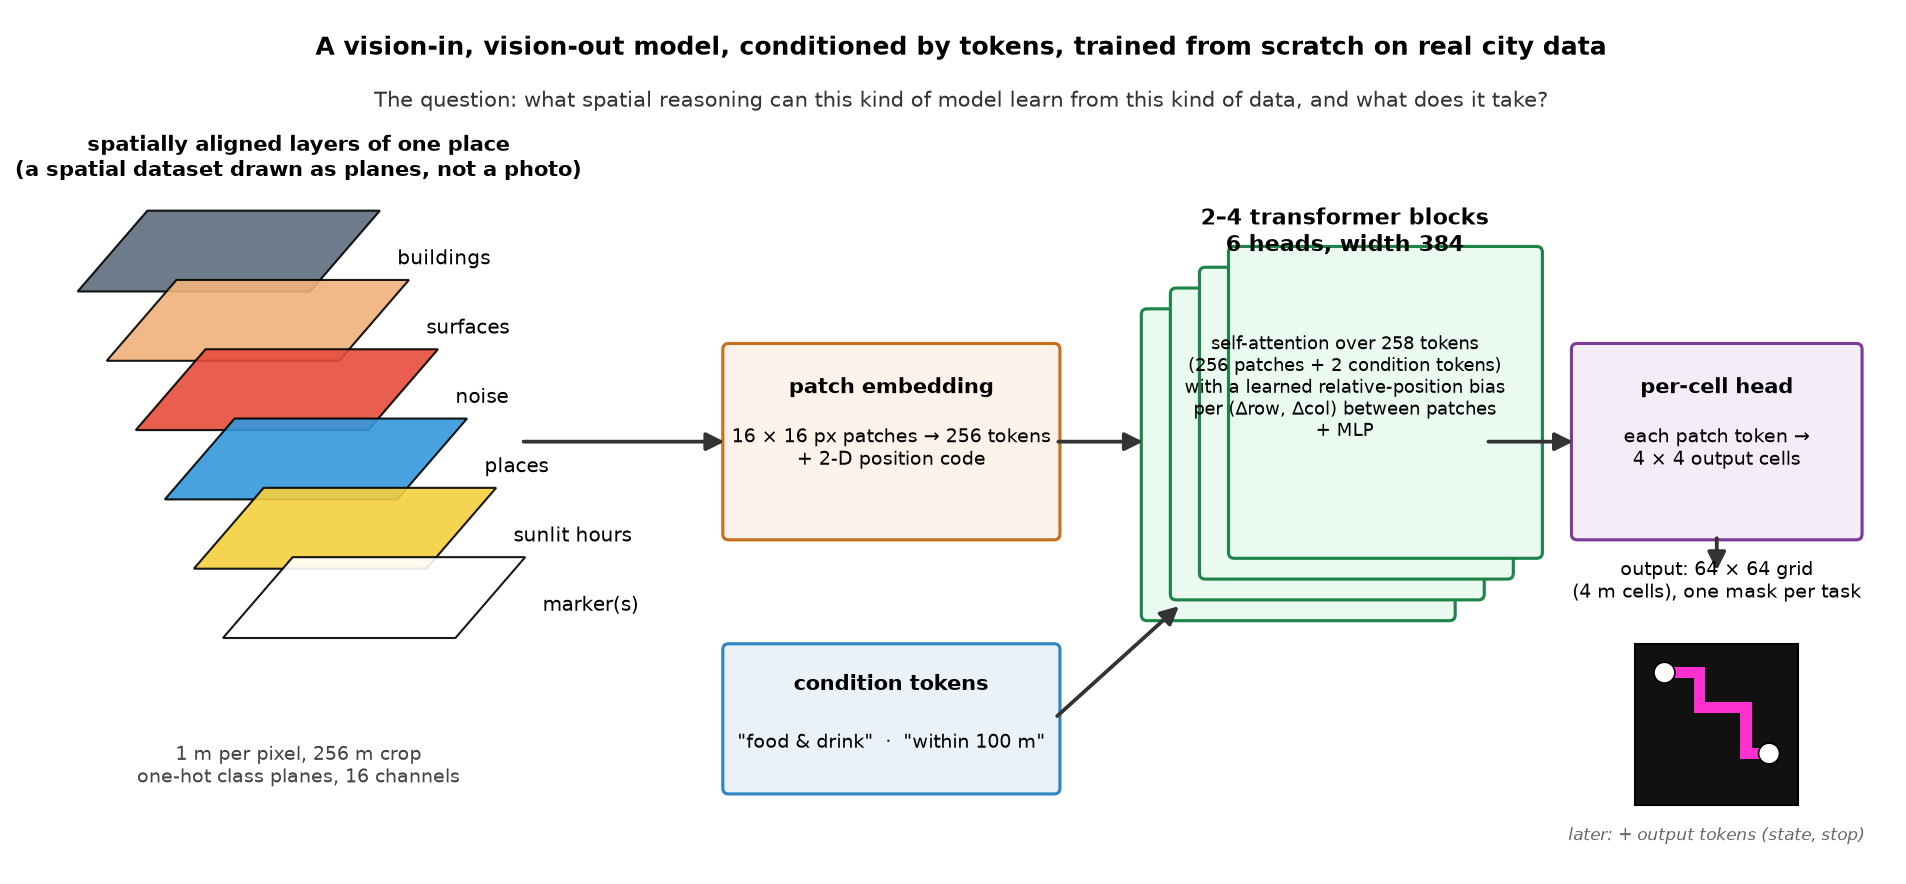
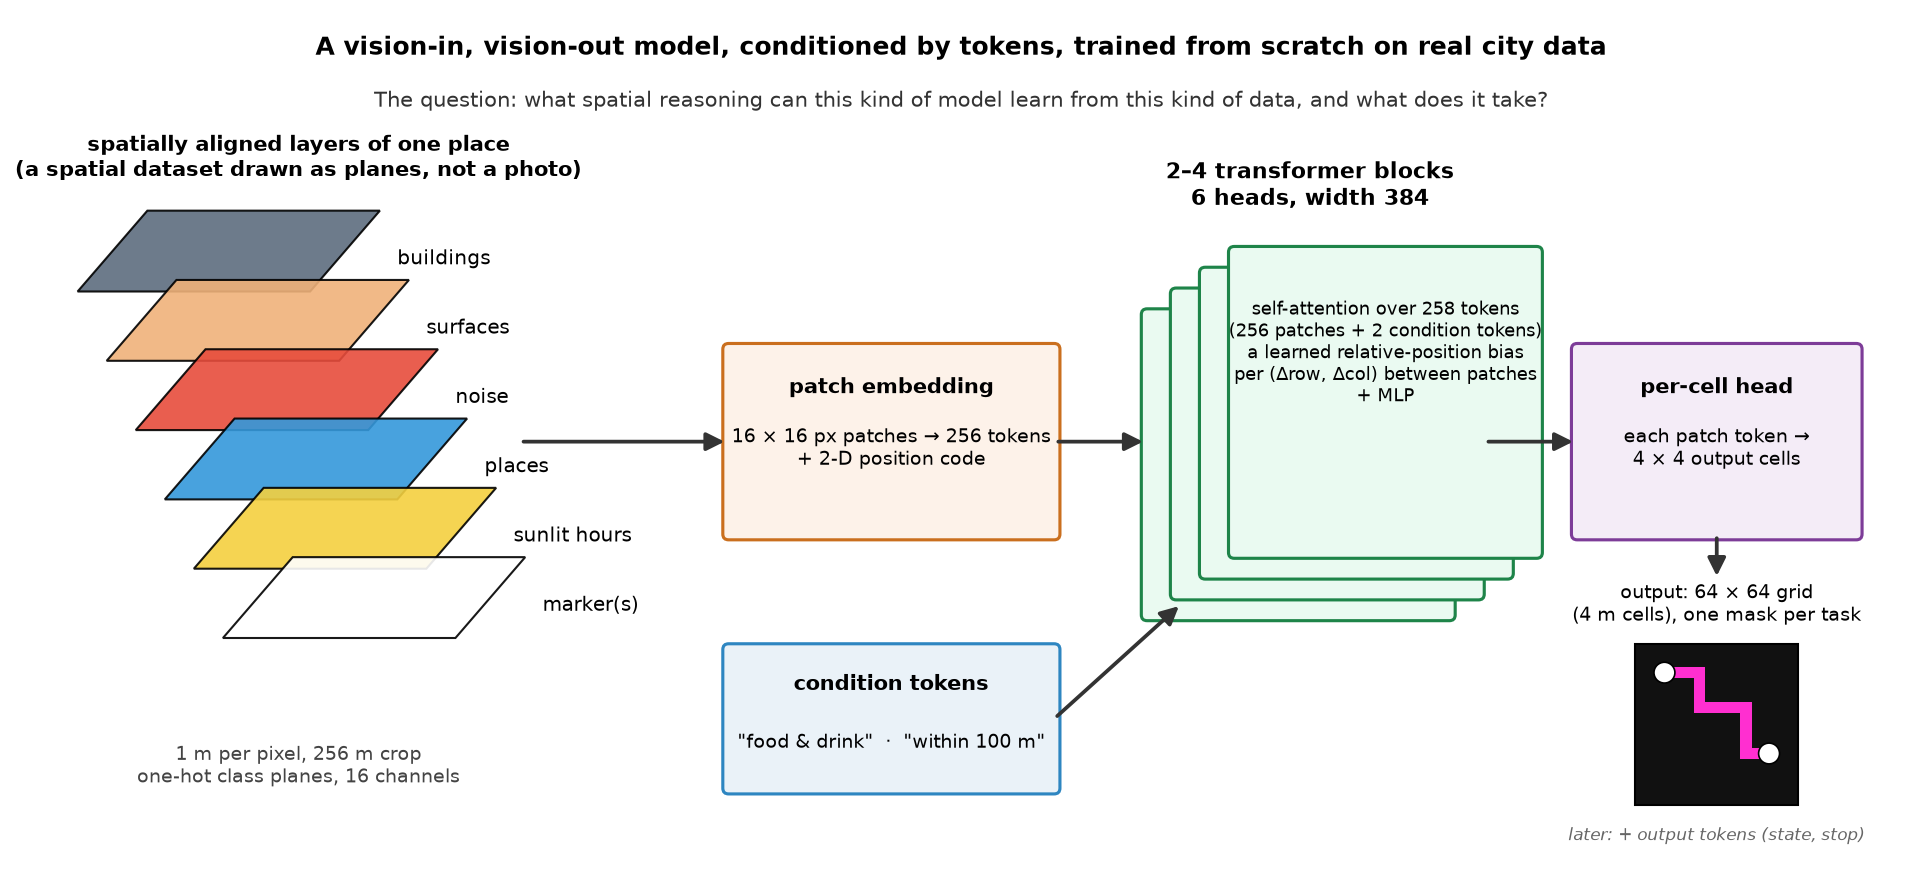
Concept figure: move the block title and output caption clear of the boxes

Changed region(s): [[0.6191, 0.336, 0.8048, 0.4887], [0.6191, 0.1833, 0.7739, 0.3054], [0.8358, 0.6109, 0.9906, 0.7025]]

diff --git a/docs/figures_make2.py b/docs/figures_make2.py
@@ -133,8 +133,8 @@ def fig_f00():
     # transformer blocks
     for k in range(4):
         ax.add_patch(FancyBboxPatch((9.6 + k * 0.25, 2.2 + k * 0.18), 2.6, 2.6, boxstyle="round,pad=0.05", facecolor="#eafaf1", edgecolor="#1e8449", lw=1.5))
-    ax.text(11.3, 5.35, "2–4 transformer blocks\n6 heads, width 384", ha="center", fontsize=10.5, weight="bold")
-    ax.text(11.3, 3.75, "self-attention over 258 tokens\n(256 patches + 2 condition tokens)\nwith a learned relative-position bias\nper (Δrow, Δcol) between patches\n+ MLP", ha="center", fontsize=8.5)
+    ax.text(11.0, 5.75, "2–4 transformer blocks\n6 heads, width 384", ha="center", fontsize=10.5, weight="bold")
+    ax.text(11.65, 4.05, "self-attention over 258 tokens\n(256 patches + 2 condition tokens)\na learned relative-position bias\nper (Δrow, Δcol) between patches\n+ MLP", ha="center", fontsize=8.5)
     # head and output
     ax.add_patch(FancyBboxPatch((13.3, 2.9), 2.4, 1.6, boxstyle="round,pad=0.05", facecolor="#f4ecf7", edgecolor="#7d3c98", lw=1.5))
     ax.text(14.5, 4.12, "per-cell head", ha="center", fontsize=10, weight="bold"); ax.text(14.5, 3.5, "each patch token →\n4 × 4 output cells", ha="center", fontsize=9)
@@ -142,10 +142,10 @@ def fig_f00():
     path = [(2, 11), (3, 11), (4, 11), (5, 11), (5, 10), (5, 9), (5, 8), (6, 8), (7, 8), (8, 8), (9, 8), (9, 7), (9, 6), (9, 5), (9, 4), (10, 4), (11, 4)]
     for x, y in path: ax.add_patch(Rectangle((13.8 + x * 0.1, 0.55 + y * 0.1), 0.1, 0.1, facecolor=PRED_C, edgecolor="none"))
     for x, y in ((2, 11), (11, 4)): ax.add_patch(plt.Circle((13.85 + x * 0.1, 0.6 + y * 0.1), 0.09, facecolor="white", edgecolor="k", lw=0.8))
-    ax.text(14.5, 2.35, "output: 64 × 64 grid\n(4 m cells), one mask per task", ha="center", fontsize=9)
+    ax.text(14.5, 2.15, "output: 64 × 64 grid\n(4 m cells), one mask per task", ha="center", fontsize=9)
     ax.text(14.5, 0.25, "later: + output tokens (state, stop)", ha="center", fontsize=8, color="#666", style="italic")
     # arrows
-    for (x0, y0, x1, y1) in [(4.2, 3.7, 6.0, 3.7), (8.8, 3.7, 9.6, 3.7), (8.8, 1.3, 9.9, 2.3), (12.5, 3.7, 13.3, 3.7), (14.5, 2.9, 14.5, 2.55)]:
+    for (x0, y0, x1, y1) in [(4.2, 3.7, 6.0, 3.7), (8.8, 3.7, 9.6, 3.7), (8.8, 1.3, 9.9, 2.3), (12.5, 3.7, 13.3, 3.7), (14.5, 2.9, 14.5, 2.5)]:
         ax.add_patch(FancyArrowPatch((x0, y0), (x1, y1), arrowstyle="-|>", mutation_scale=18, lw=1.8, color="#333"))
     ax.text(8.0, 7.05, "A vision-in, vision-out model, conditioned by tokens, trained from scratch on real city data", ha="center", fontsize=12, weight="bold")
     ax.text(8.0, 6.6, "The question: what spatial reasoning can this kind of model learn from this kind of data, and what does it take?", ha="center", fontsize=10, color="#333")
